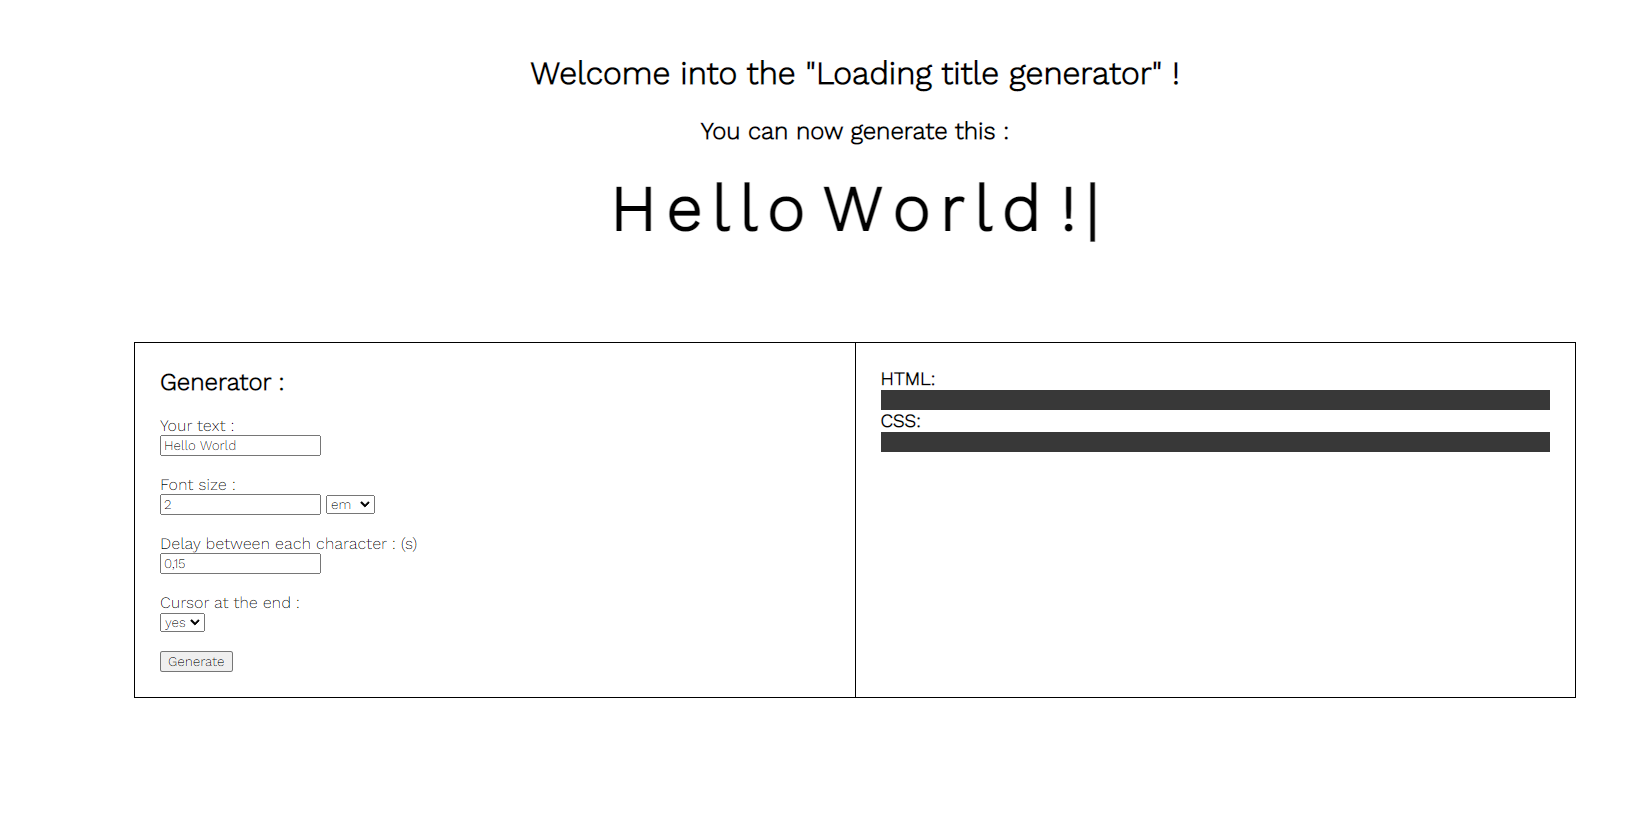
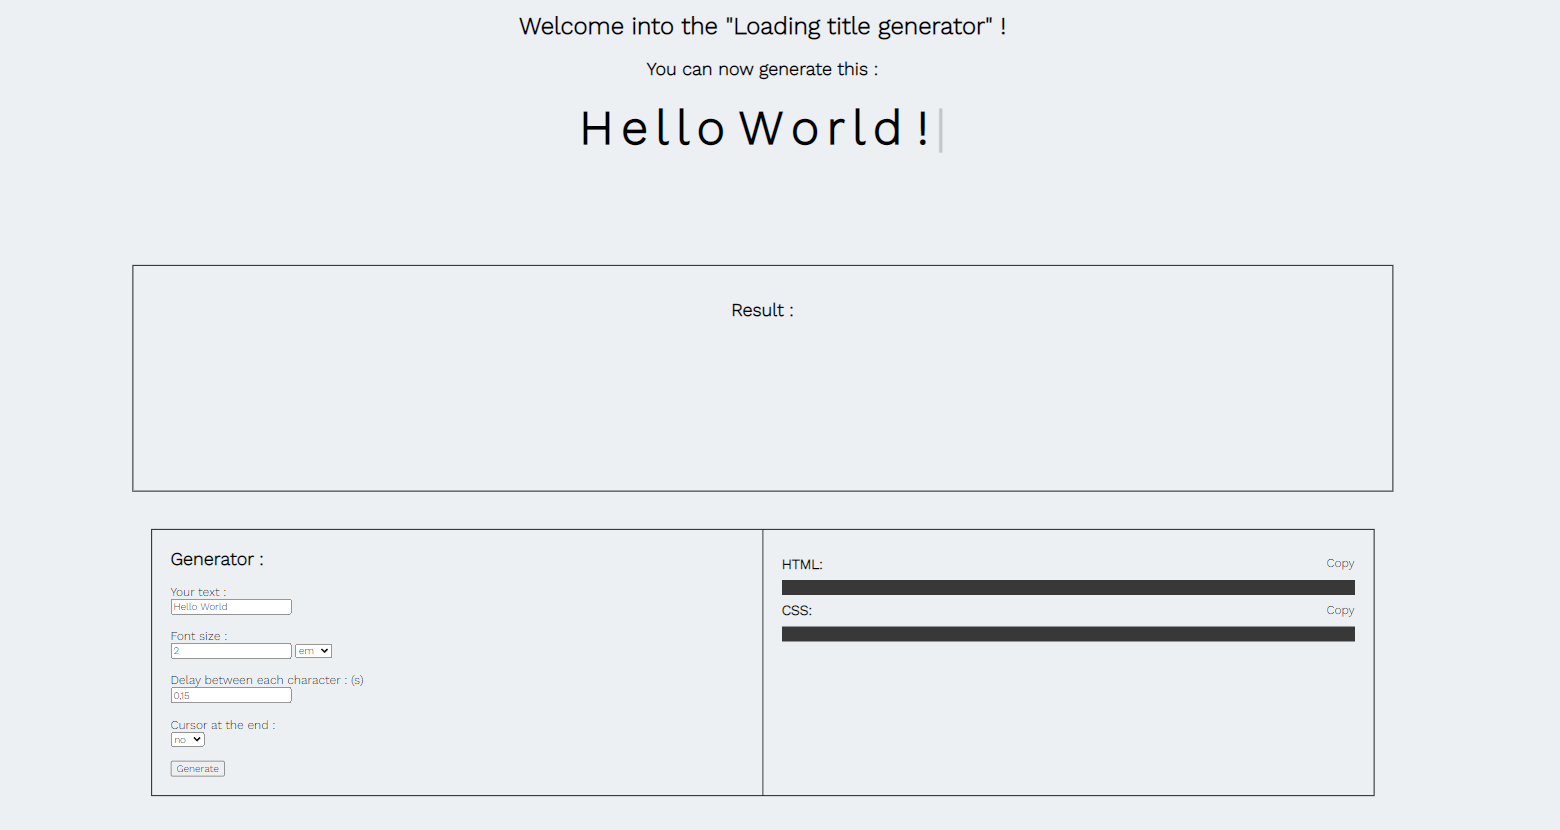
up

diff --git a/root/app.js b/root/app.js
@@ -54,11 +54,11 @@ let cursorActiveValue; // cursor value (bool)
 
 // Buttons event
 htmlButton.addEventListener("click", () => {
-    navigator.clipboard.writeText(resultHtml.innerHTML);
+    navigator.clipboard.writeText(resultHtml.innerText);
     resultHtml.innerHTML = "Copy !";
 });
 cssButton.addEventListener("click", () => {
-    navigator.clipboard.writeText(resultCss.innerHTML);
+    navigator.clipboard.writeText(resultCss.innerText);
     resultCss.innerHTML = "Copy !";
 });
 
@@ -129,7 +129,8 @@ function pushAll(){
     // Push all style
     pushDisplayResult( "<style>"+ letter + "\n"+ newKeyframesLetter(fontSizeValue, fontSizeTypeValue) + "\n" + displayAllLetterNthChild() 
     + "\n" + newCursor(fontSizeValue, fontSizeTypeValue) + "\n" + keyframesCursor +"</style>");
-
+    
+    // start animations
     letter.style.animationPlayState = 'running';
 
     

diff --git a/root/css/style.css b/root/css/style.css
@@ -140,13 +140,16 @@ header * {
 }
 
 #section-box-2 {
+    padding: 25px;
     border: solid 1px black;
-    min-width: 75%;
-    height: 250px;
+    width: 75%;
+    min-height: 250px;
     margin: 50px 0 50px 0;
     display: flex;
     flex-direction: column;
     align-items: center;
+    overflow-wrap: anywhere;
+    height: auto;
 }
 
 #header-display {
